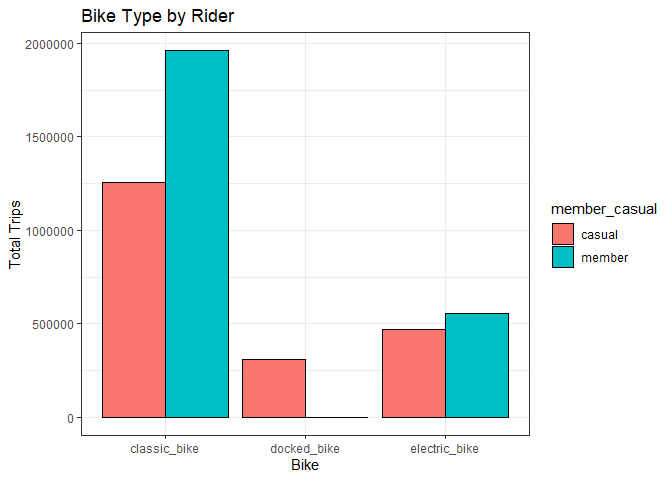
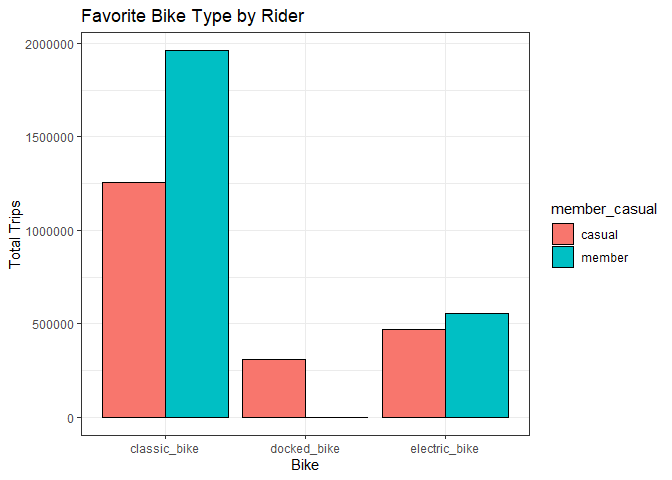
Final commit approval.

Changed region(s): [[0.125, 0.0, 0.4688, 0.0625]]

diff --git a/Bicycle_Analysis.md b/Bicycle_Analysis.md
@@ -610,8 +610,8 @@ total_trips %>% group_by(member_casual, day) %>%
 
 The trend so far is members tend to ride consistentaly through out the
 week, potentially for work/commuting. The Casual riders drop off heavily
-during the week but more than double during the weekend - more
-extracirricular or for hobbyist.
+during the week but more than double during the weekend - recreational
+use.
 
 # Share
 
@@ -623,7 +623,7 @@ visuals to bring the data to life.
 ``` r
 total_trips %>%  group_by(member_casual, rideable_type) %>% 
   ggplot() + geom_bar(aes(x = rideable_type, fill = member_casual), color = 'black', position = 'dodge') +
-  labs(title = 'Bike Type by Rider') +
+  labs(title = 'Favorite Bike Type by Rider') +
   xlab(label = 'Bike') + ylab(label = 'Total Trips') + theme_bw()
 ```
 
@@ -676,7 +676,7 @@ above:
 
 - Casual riders tend to ride less during the week and overall trips and
   duration of trips more than double on the weekends. This show’s a
-  positive correlation for hobbyist or recreational use.
+  positive correlation for recreational use.
 - Members often ride consistently during the work days and less on the
   weekends, showing a correlation to work commute.
 - While both casual and members ride significantly less between
@@ -698,9 +698,9 @@ Considering the following questions:
     annual membership vs day-to-day costs.
 2.  The busiest months for casual riders are between June and September,
     use limited-time promotions/discounts during this time to increase
-    conversion rate.
-3.  Create discounts on the annual membership if riders bike past a
-    certain threshold each month; This will further increase the
-    conversion rate since they are already biking heavily on the
-    weekends and would actually encourage members as well to bike more
-    during the weekend.
+    the conversion rate.
+3.  Create discounts/credit-back on the annual membership if riders bike
+    past a certain threshold each month;this can positively affect the
+    conversion rate casuals are already biking heavily on the weekends -
+    could potentially encourage members to bike more during the weekend
+    as well.
